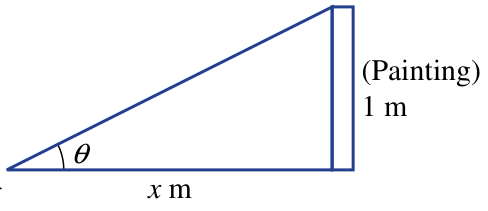
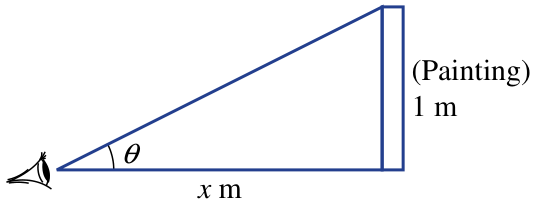
Stop diagrams losing the measurements students answer from
Reported on 3E Q1, where four of the nine triangles had lost a side
length: b's "4", c's "3", e's "5" and g's "5t". The labels had not
leaked into the text either - they were gone from the page entirely,
because two rules disagreed. A line within 14pt of a drawing was taken
out of the prose as "belonging to the diagram", while the crop refused
to grow to include it, so it belonged to nothing.

Four fixes, each of which was losing a different set of labels:

- A label now goes to whichever drawing it sits NEAREST. That replaces
  padding every other figure by 14pt and refusing to grow into the pad,
  which is the same idea done bluntly - the pad reaches far enough to
  cover a label that plainly belongs to the drawing in the next cell.
- A line starting at the body column is prose however close to a
  diagram it ends, matching what absorb_labels already assumed. Without
  it 3F Q7's stem lost the word "necessary."
- A margin diagram - one set alongside a whole column of parts - gets a
  label's slack above and below its cell, because the cell is ruled off
  at part letters down the left while the diagram is not. 3F Q10's
  second triangle was missing the vertices A, B and C that its question
  asks about. Slack anywhere else reaches the tier band, so crops stop
  at one.
- Paths that touch without overlapping are one drawing. Line art is
  drawn as separate strokes, so a stick figure, its sight line and the
[…]

diff --git a/tools/extract_flow.py b/tools/extract_flow.py
@@ -179,6 +179,14 @@ PUA_GLYPHS = {
 # and added rather than shipped.
 UNMAPPED_PUA = {}
 
+# Every dimension label the prose gave up as belonging to a drawing that
+# no crop turned out to contain, as "p4 q1: '4'". A lost label is a side
+# length missing from a diagram a student has to answer from, and it is
+# invisible in the output - the crop just looks like a triangle with one
+# fewer number on it - so it is reported at the end of a build the same
+# way an unmapped glyph is.
+LOST_LABELS = []
+
 
 def decode_pua(font, ch):
     """Maps one private-use glyph to the text it actually shows."""
@@ -525,6 +533,25 @@ def merge_stacked(runs, all_lines, line_bbox):
     return runs
 
 
+# How far apart two paths can be and still be one drawing. Overlap
+# alone is not enough: line art is drawn as separate strokes that MEET
+# rather than cross, so a stick figure, the sight line from its eye and
+# the monument it looks at (3I Q14) are three boxes that touch at their
+# corners and share no area at all. Small enough that two diagrams in
+# neighbouring cells - always tens of points apart - never join.
+FIG_JOIN_PT = 6.0
+
+
+def touching(a, b):
+    """True if two paths belong to the same drawing."""
+    inter = a & b
+    if not inter.is_empty and inter.get_area() > 0.10 * min(a.get_area(), b.get_area()):
+        return True
+    dx = max(a.x0 - b.x1, b.x0 - a.x1, 0.0)
+    dy = max(a.y0 - b.y1, b.y0 - a.y1, 0.0)
+    return dx <= FIG_JOIN_PT and dy <= FIG_JOIN_PT
+
+
 def page_figures(page: fitz.Page, y_floor: float):
     """Every real figure on the page, resolved ONCE for the whole page.
 
@@ -544,7 +571,14 @@ def page_figures(page: fitz.Page, y_floor: float):
 
     parts = []
     for r in raw:
-        if r.width < 8 or r.height < 8:
+        # Small paths are kept as merge candidates rather than dropped:
+        # an angle arc, a tick, a right-angle square is 6pt across and
+        # is part of the drawing it sits on. Dropped here they were
+        # missing from the union, so the crop was cut through them -
+        # that is what sliced the arc off the top of 3H Q6's ladder.
+        # Anything that fails to merge into a real figure is discarded
+        # by too_small() at the end.
+        if r.width < 3 or r.height < 3:
             continue
         if r.y1 < y_floor:
             continue
@@ -564,10 +598,7 @@ def page_figures(page: fitz.Page, y_floor: float):
     for r in sorted(parts, key=lambda b: (b.y0, b.x0)):
         placed = False
         for m in merged:
-            inter = m & r
-            if inter.is_empty:
-                continue
-            if inter.get_area() <= 0.10 * min(m.get_area(), r.get_area()):
+            if not touching(m, r):
                 continue
             grown = m | r
             if grown.height > MAX_FIG_H:
@@ -577,6 +608,26 @@ def page_figures(page: fitz.Page, y_floor: float):
             break
         if not placed:
             merged.append(fitz.Rect(r))
+    # Merging is order-dependent and one pass only joins a piece to a
+    # box that already exists, so a drawing whose pieces arrive out of
+    # order needs another sweep - the stick figure, the sight line and
+    # the monument of 3I Q14 chain together, but only two at a time.
+    changed = True
+    while changed:
+        changed = False
+        for i, a in enumerate(merged):
+            for b in merged[i + 1:]:
+                if not touching(a, b):
+                    continue
+                grown = a | b
+                if grown.height > MAX_FIG_H:
+                    continue
+                a.x0, a.y0, a.x1, a.y1 = grown.x0, grown.y0, grown.x1, grown.y1
+                merged.remove(b)
+                changed = True
+                break
+            if changed:
+                break
 
     keep = []
     for r in merged:
@@ -703,8 +754,17 @@ LABEL_MARGIN_PT = 14.0
 LABEL_MAX_CHARS = 24
 
 
-def is_label_line(bbox, text, figs):
-    """True if this line is a diagram's annotation, not prose."""
+def hugs_a_figure(bbox, text, figs):
+    """True if this line reads as a diagram's annotation.
+
+    Only ever used to REPORT one that no crop took (see LOST_LABELS).
+    What a crop actually contains is what decides whether a line is in
+    the bitmap - this used to decide it instead, and the two disagreed:
+    a line within the margin of a figure was taken out of the prose
+    whether or not the crop had grown to include it, so a label that
+    failed to be absorbed was lost from the page altogether, and the
+    word "necessary." at the end of 3F Q7's stem - a line that happens
+    to end just above a diagram - was lost with them."""
     if not text or len(text) > LABEL_MAX_CHARS:
         return False
     m = LABEL_MARGIN_PT
@@ -713,6 +773,13 @@ def is_label_line(bbox, text, figs):
         fitz.Rect(f.x0 - m, f.y0 - m, f.x1 + m, f.y1 + m).contains(centre)
         for f in figs
     )
+
+
+def rect_gap(r, p):
+    """Distance from a point to a rectangle - 0 when it is inside."""
+    dx = max(r.x0 - p.x, 0.0, p.x - r.x1)
+    dy = max(r.y0 - p.y, 0.0, p.y - r.y1)
+    return (dx * dx + dy * dy) ** 0.5
 
 
 def absorb_labels(figs, lines, region, body_left, others=()):
@@ -759,6 +826,32 @@ def absorb_labels(figs, lines, region, body_left, others=()):
                 if bbox.x0 < body_left + 2 and bbox.y0 < g.y0:
                     continue
                 new = (g | bbox) & region
+                # A label belongs to whichever drawing it sits nearest.
+                # This used to be enforced by padding every other figure
+                # by the label margin and refusing to grow into the pad,
+                # which is the same idea done bluntly: the pad reaches
+                # 14pt past a figure in every direction, far enough to
+                # cover a label that plainly belongs to its neighbour -
+                # and once refused here, is_label_line had already taken
+                # the label out of the prose, so it vanished from the
+                # page entirely. That is what took the "4" off 3E Q1b,
+                # the "3" off Q1c, the "5" off Q1e, the "5t" off Q1g and
+                # the "A" off the second triangle in 3F Q10.
+                # Ownership is judged against EVERY other figure, not
+                # just the ones inside this region: the diagram that owns
+                # a label is often the one in the next cell down, which
+                # is precisely why this figure must not take it. Judged
+                # only against its own region, part (d) of 3E Q1 could
+                # not see part (g) below it and swallowed g's "5t".
+                mid = fitz.Point(0.5 * (bbox.x0 + bbox.x1), 0.5 * (bbox.y0 + bbox.y1))
+                rivals = [o for o in grown if o is not g] + list(others)
+                if any(rect_gap(o, mid) < rect_gap(g, mid) - 0.5 for o in rivals):
+                    continue
+                # Overlap, though, can only happen inside the region -
+                # growth is clipped to it, so a figure outside cannot be
+                # reached and must not veto anything.
+                blocked = [o for o in grown if o is not g]
+                blocked += [o for o in others if o.intersects(region)]
                 # Growing must never reach another figure - any other
                 # figure in the question, not just one in the same
                 # group. A question's own diagram is absorbed against
@@ -766,14 +859,7 @@ def absorb_labels(figs, lines, region, body_left, others=()):
                 # without this it grew down the page until it enclosed
                 # the NEXT diagram, which then printed twice: once
                 # inside this crop and once as itself.
-                # Each obstacle is padded by the label margin, because a
-                # diagram's labels sit just outside its box: stopping at
-                # the box itself still let a crop swallow the NEXT
-                # diagram's "A" hanging above it.
-                m = LABEL_MARGIN_PT
-                blocked = [o for o in grown if o is not g] + list(others)
-                if any(fitz.Rect(o.x0 - m, o.y0 - m, o.x1 + m, o.y1 + m).intersects(new)
-                       for o in blocked):
+                if any(o.intersects(new) for o in blocked):
                     continue
                 if not new.is_empty and new != g:
                     g.x0, g.y0, g.x1, g.y1 = new.x0, new.y0, new.x1, new.y1
@@ -1025,6 +1111,15 @@ def merge_near(figs, gap=8.0):
     return out
 
 
+def margin_figure(f, marks):
+    """True for a diagram set out in the right margin, alongside a whole
+    single column of parts rather than inside any one part's row."""
+    if not marks:
+        return False
+    single_col = len({round(m["x"]) for m in marks}) == 1
+    return single_col and f.x0 > min(m["x"] for m in marks) + 200
+
+
 def label_figures(figs, marks):
     """Attaches each figure to the part label that names it, and clips it
     to that label's cell.
@@ -1090,7 +1185,13 @@ def label_figures(figs, marks):
             # under the letter takes the top off every circle. What is
             # above that line belongs to the row before, and is the
             # stray arc that was appearing across the top of a crop.
-            f.y0 = max(f.y0, best["y"] - 2)
+            # ...and only if it reaches well above it. The book sets a
+            # letter level with the top of its diagram, so a drawing
+            # whose topmost arc sits a few points higher is that
+            # diagram's own top, not a leftover from the row before -
+            # cutting at the letter took the arc off 3H Q6's ladder.
+            if f.y0 < best["y"] - 8:
+                f.y0 = best["y"] - 2
             # The letter itself sits just left of the diagram, so on a
             # figure it is level with it lands inside the crop and
             # prints twice - once in the bitmap and once as the part's
@@ -1104,11 +1205,14 @@ def label_figures(figs, marks):
             # to the row its top happens to fall in, it lost its lower
             # half, and the labels that went with that half then leaked
             # into the next part's text ("...to two decimal places.20").
-            single_col = len({round(m["x"]) for m in marks}) == 1
-            margin_fig = single_col and f.x0 > min(m["x"] for m in marks) + 200
             floor = next((y for y in row_ys if y > best["y"] + 6), None)
-            if floor is not None and not margin_fig:
-                f.y1 = min(f.y1, floor - 3)
+            # Only a figure that actually reaches the next row is cut
+            # back off it. The 3pt margin is there to keep the next
+            # row's letter out of the crop, not to shave the last of a
+            # drawing that already stops above it - which is what took
+            # the bottom vertex off 3E Q1's part (d).
+            if floor is not None and f.y1 > floor and not margin_figure(f, marks):
+                f.y1 = floor - 3
             wall = min((m["x"] for m in marks
                         if abs(m["y"] - best["y"]) <= 6 and m["x"] > best["x"] + 6),
                        default=None)
@@ -1374,7 +1478,34 @@ def extract_questions(doc, pno, crops_dir, prefix, want_tier=None, y_floor=None)
                 # and grew across its neighbour, so both crops ended up
                 # containing both diagrams.
                 near = elsewhere + [g for g in group if g is not f]
-                out += absorb_labels([f], lines, bounds & region, PART_X[1], others=near)
+                box = bounds & region
+                # A diagram out in the right margin gets a label's worth
+                # of vertical slack, because the cell is the wrong ruler
+                # for it: the cell begins and ends at part letters down
+                # the left, while a margin diagram is set alongside
+                # several parts and its topmost and bottommost
+                # annotations fall wherever the drawing does. That is
+                # where the vertex labels A, B and C of 3F Q10's second
+                # triangle were going - above and below a cell whose top
+                # is part (d)'s own line. The slack is only safe here:
+                # a diagram in a grid cell has the next row's tier band
+                # or part row a few points below it, and 14pt of reach
+                # was enough to pull a slice of the band's own text into
+                # the crop.
+                if margin_figure(f, pmarks):
+                    m = LABEL_MARGIN_PT
+                    box = fitz.Rect(box.x0, box.y0 - m, box.x1, box.y1 + m)
+                # Never into a tier band. The band's own text is the
+                # publisher's per-tier question list ("7 | 7-9 | 8-10"),
+                # short lines sitting right where a diagram's labels
+                # would - so a crop that reaches one takes a slice of
+                # the coloured banner and a stray number with it.
+                for b0, b1 in band_rows:
+                    if b0 >= f.y1:
+                        box.y1 = min(box.y1, b0)
+                    if b1 <= f.y0:
+                        box.y0 = max(box.y0, b1)
+                out += absorb_labels([f], lines, box, PART_X[1], others=near)
             figs_by_letter[letter] = out
         figs = [f for v in figs_by_letter.values() for f in v]
         fig_json = {}
@@ -1429,7 +1560,31 @@ def extract_questions(doc, pno, crops_dir, prefix, want_tier=None, y_floor=None)
             # its part markers in one row, so by the time the labels are
             # reached every part is already open and they all land on
             # the last one.
-            if is_label_line(bbox, line_text, figs):
+            # Labels just OUTSIDE the drawing are the same thing, and
+            # they are the ones that leak: a diagram grid opens all of
+            # its part markers in one row, so by the time the labels are
+            # reached every part is already open and they all land on
+            # the last one. A pronumeral label ("h", "x") reads as a
+            # sub-part marker too, and opens a phantom sub-item.
+            #
+            # A line starting at the body column is prose, however close
+            # to a diagram it happens to end - the same test absorb_
+            # labels uses to refuse it, so the two cannot disagree about
+            # what is a label. Without it the last line of 3F Q7's stem,
+            # "necessary.", was read as an annotation of the diagram
+            # below it and dropped from the page.
+            if hugs_a_figure(bbox, line_text, figs) and bbox.x0 >= PART_X[1] + 2:
+                # A label the prose gives up and no crop actually
+                # contains is gone from the booklet altogether - a side
+                # length a student needs, silently missing. Reported
+                # rather than repaired here: the repair belongs upstream
+                # in absorb_labels, and the report is what proves it
+                # worked on every figure of every chapter, instead of
+                # one spot-check at a time. A part letter is structure,
+                # printed beside the crop from the part list, so it is
+                # not missing just because the bitmap has no copy of it.
+                if not any(fr.contains(bbox) for fr in figs) and not marker_parse(spans, 0):
+                    LOST_LABELS.append(f"p{pno + 1} q{number}: {line_text!r}")
                 continue
 
             # The part is opened as soon as its label is seen, BEFORE the
@@ -2256,6 +2411,12 @@ def main():
         f"{stats['figures']} figures, {stats['panels']} teaching panels, "
         f"{stats['math']} inline math crops, id={pid}"
     )
+    if LOST_LABELS:
+        print("\nWARNING: diagram labels that reached neither the crop nor")
+        print("the text. Each is a measurement missing from the page - check")
+        print("the figure's cell and what is blocking absorb_labels:")
+        for line in LOST_LABELS:
+            print(f"  {line}")
     if UNMAPPED_PUA:
         print("\nWARNING: unmapped private-use glyphs reached the text.")
         print("Each is a character missing from the prose. Render it, read")
